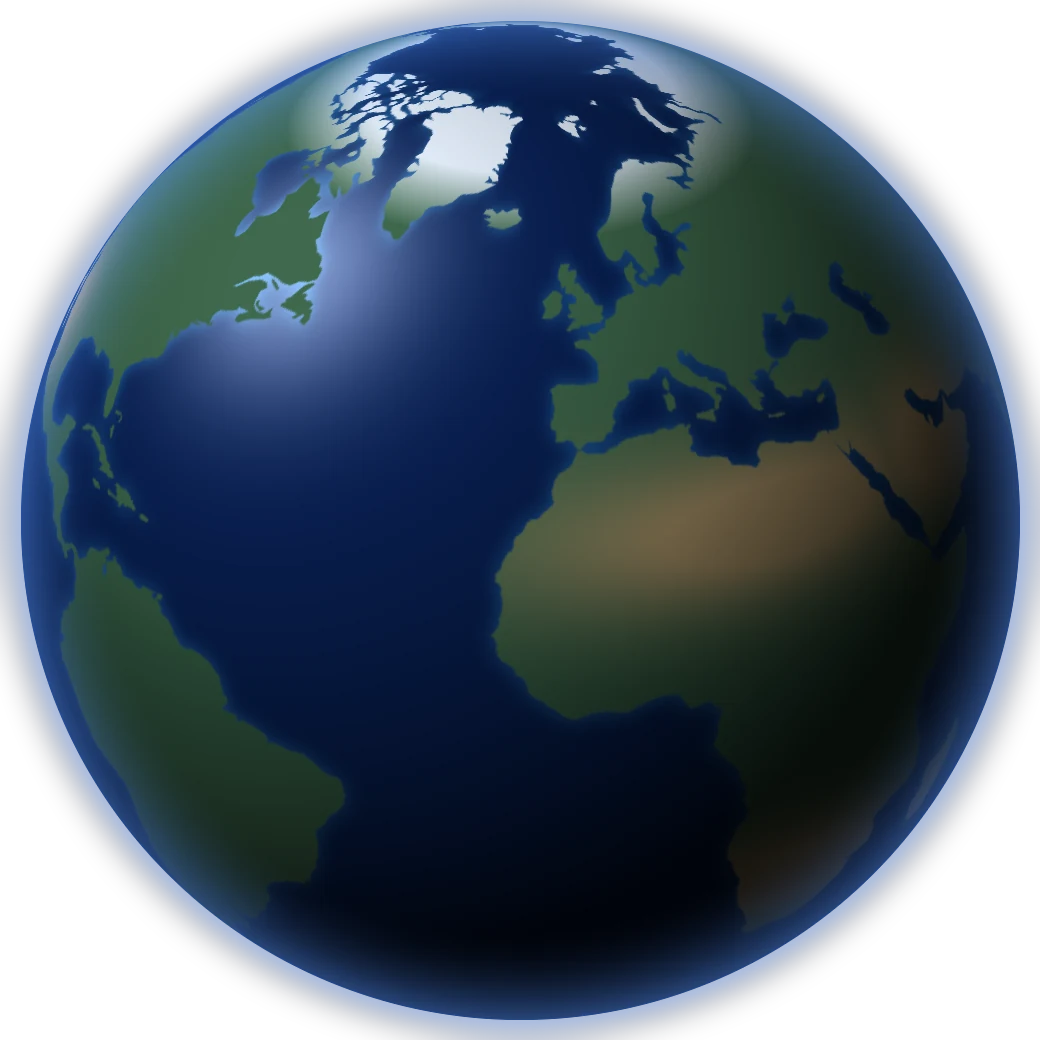
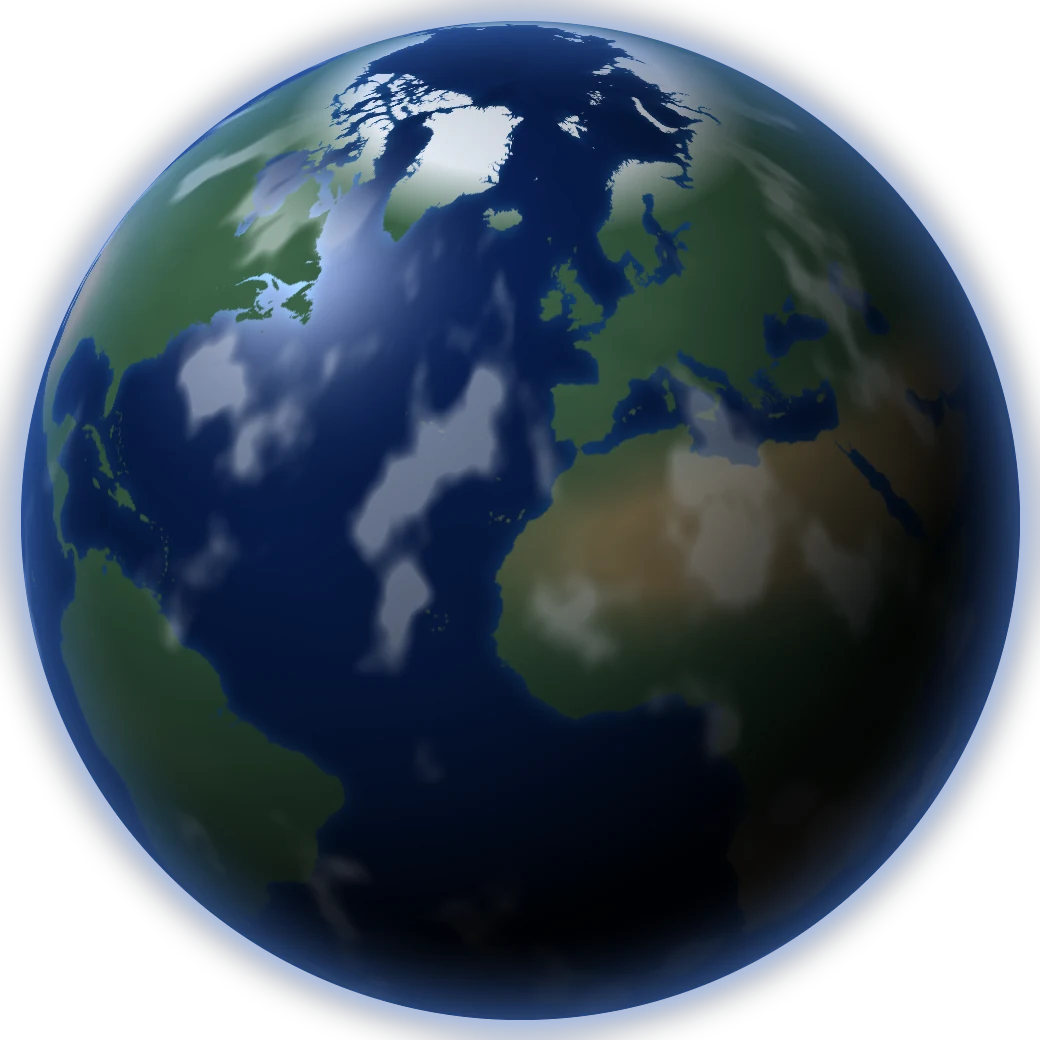
Remove turntable pause button, fix site videos not starting, more realistic globe, restyle quality duty cards
Claude-Session: https://claude.ai/code/session_01YSiovufiGpZNx3xsfEocGK

diff --git a/src/components/SiteVideo.tsx b/src/components/SiteVideo.tsx
@@ -3,9 +3,9 @@
 import { useEffect, useRef, useState } from "react";
 
 /**
- * Short muted loop of real site footage. Plays for every visitor, but only while it is on screen:
- * it starts loading just before it scrolls into view and pauses when it leaves, so several videos on the
- * page never decode at once (smooth playback). No controls (Ganushi, 4 Nov 2026): it plays as a silent loop.
+ * Short muted loop of real site footage, with no controls (Ganushi, 4 Nov 2026). It loads a little before it
+ * scrolls into view and plays while visible, pausing when it leaves so several videos never decode at once.
+ * If the browser pauses or blocks it (power saving, autoplay rules), it retries on the next touch or scroll.
  */
 export function SiteVideo({ src, poster, label, caption }: { src: string; poster: string; label: string; caption: string }) {
   const ref = useRef<HTMLVideoElement>(null);
@@ -14,31 +14,36 @@ export function SiteVideo({ src, poster, label, caption }: { src: string; poster
   useEffect(() => {
     const v = ref.current;
     if (!v) return;
-    let userPaused = false;
-    const onPause = () => { if (!document.hidden && v.dataset.auto !== "1") userPaused = true; };
-    const onPlay = () => { userPaused = false; };
-    v.addEventListener("pause", onPause);
-    v.addEventListener("play", onPlay);
+    v.muted = true;
+    v.setAttribute("muted", "");
+    v.setAttribute("playsinline", "");
+    let visible = false;
+    const tryPlay = () => { if (visible && v.paused && v.currentSrc) v.play().catch(() => {}); };
     const io = new IntersectionObserver(([entry]) => {
-      if (entry.isIntersecting) {
-        setNear(true);
-        if (!userPaused) v.play().catch(() => {});
-      } else if (!v.paused) {
-        v.dataset.auto = "1"; v.pause(); delete v.dataset.auto;
-      }
-    }, { rootMargin: "200px 0px", threshold: 0.15 });
+      visible = entry.isIntersecting;
+      if (visible) { setNear(true); tryPlay(); } else if (!v.paused) v.pause();
+    }, { rootMargin: "400px 0px", threshold: 0 });
     io.observe(v);
-    return () => { io.disconnect(); v.removeEventListener("pause", onPause); v.removeEventListener("play", onPlay); };
+    v.addEventListener("canplay", tryPlay);
+    v.addEventListener("loadeddata", tryPlay);
+    // Retry after the visitor interacts, for browsers that block autoplay until then.
+    const retry = () => tryPlay();
+    window.addEventListener("touchstart", retry, { passive: true });
+    window.addEventListener("scroll", retry, { passive: true });
+    document.addEventListener("visibilitychange", retry);
+    return () => {
+      io.disconnect();
+      v.removeEventListener("canplay", tryPlay);
+      v.removeEventListener("loadeddata", tryPlay);
+      window.removeEventListener("touchstart", retry);
+      window.removeEventListener("scroll", retry);
+      document.removeEventListener("visibilitychange", retry);
+    };
   }, []);
-
-  // Once the source is attached, start playing.
-  useEffect(() => {
-    if (near) ref.current?.play().catch(() => {});
-  }, [near]);
 
   return (
     <figure className="site-video">
-      <video ref={ref} src={near ? src : undefined} poster={poster} muted loop playsInline disablePictureInPicture preload={near ? "auto" : "none"} aria-label={label} />
+      <video ref={ref} src={near ? src : undefined} poster={poster} muted loop playsInline autoPlay disablePictureInPicture preload={near ? "auto" : "none"} aria-label={label} />
       <figcaption>{caption}</figcaption>
     </figure>
   );

diff --git a/src/app/globals.css b/src/app/globals.css
@@ -838,3 +838,15 @@ body::after {
 .vcard-save { justify-self: start; font-size: 0.82rem; font-weight: 600; color: var(--accent-strong); text-decoration: none; border-bottom: 1px dashed currentColor; }
 @media (max-width: 420px) { .vcard-actions { grid-template-columns: 1fr; } .vcard-photo { width: 84px; height: 84px; } }
 @media (prefers-reduced-motion: reduce) { .vcard::after { animation-duration: 14s; } }
+
+/* Quality duty cards */
+.duty { position: relative; overflow: hidden; padding: 24px 22px 22px; display: grid; gap: 12px; align-content: start; --a: 76, 141, 255; transition: transform 0.3s, border-color 0.3s, box-shadow 0.3s; }
+.duty-1 { --a: 168, 85, 247; } .duty-2 { --a: 34, 211, 238; } .duty-3 { --a: 16, 185, 129; }
+.duty::before { content: ""; position: absolute; left: 0; right: 0; top: 0; height: 3px; background: linear-gradient(90deg, rgba(var(--a), 0.2), rgb(var(--a)), rgba(var(--a), 0.2)); }
+.duty::after { content: ""; position: absolute; right: -40px; top: -40px; width: 140px; height: 140px; border-radius: 50%; background: radial-gradient(closest-side, rgba(var(--a), 0.25), transparent); pointer-events: none; }
+.duty:hover { transform: translateY(-4px); border-color: rgba(var(--a), 0.7); box-shadow: 0 22px 44px -24px rgba(0, 0, 0, 0.9), 0 0 0 1px rgba(var(--a), 0.4); }
+.duty-top { display: flex; align-items: center; justify-content: space-between; gap: 10px; }
+.duty-ico { width: 48px; height: 48px; border-radius: 14px; display: grid; place-items: center; color: #fff; background: linear-gradient(150deg, rgba(var(--a), 0.95), rgba(var(--a), 0.55)); box-shadow: 0 8px 22px -8px rgb(var(--a)); }
+.duty-tag { font: 600 0.68rem var(--ff-body); letter-spacing: 0.06em; text-transform: uppercase; text-align: right; color: rgb(var(--a)); filter: brightness(1.35); }
+.duty h3 { font-size: 1.08rem; color: #fff; margin-top: 4px; }
+.duty p { font-size: 0.9rem; line-height: 1.65; }

diff --git a/src/app/page.tsx b/src/app/page.tsx
@@ -1,4 +1,4 @@
-import { AlertTriangle, Check, CheckCircle2, ClipboardCheck, Clock, Droplets, Fan, FileBarChart, FileCheck2, FileSignature, Gauge, Mail, MapPin, MessageSquare, Phone, RefreshCw, ScanSearch, Server, ShieldCheck, Truck, Wallet, Wrench, Zap } from "lucide-react";
+import { AlertTriangle, Check, CheckCircle2, ClipboardCheck, Clock, Droplets, Fan, FileBarChart, FileCheck2, FileSignature, Gauge, Mail, MapPin, MessageSquare, Phone, RefreshCw, ScanSearch, Server, ShieldCheck, Sparkles, Truck, Wallet, Wind, Wrench, Zap } from "lucide-react";
 import { CoolingExplainer } from "@/components/CoolingExplainer";
 import { Globe } from "@/components/Globe";
 import { LeadForm } from "@/components/LeadForm";
@@ -363,7 +363,14 @@ export default function Home() {
           </Reveal>
           <div className="qc-duties">
             {quality.team.duties.map((d, i) => (
-              <Reveal key={d.title} delay={i * 0.05} className="panel feat-card"><h3>{d.title}</h3><p className="muted">{d.text}</p></Reveal>
+              <Reveal key={d.title} delay={i * 0.05} className={`panel duty duty-${i}`}>
+                <div className="duty-top">
+                  <span className="duty-ico">{[<Wind key="a" size={22} />, <Sparkles key="b" size={22} />, <Droplets key="c" size={22} />, <ClipboardCheck key="d" size={22} />][i]}</span>
+                  <span className="duty-tag">{["Weekly · Monthly · 3–4 months", "Every machine", "Weekly inspection", "Until closed"][i]}</span>
+                </div>
+                <h3>{d.title}</h3>
+                <p className="muted">{d.text}</p>
+              </Reveal>
             ))}
           </div>
           <Tabs

diff --git a/src/components/MinerTurntable.tsx b/src/components/MinerTurntable.tsx
@@ -1,13 +1,12 @@
 "use client";
 
 import { useEffect, useRef, useState } from "react";
-import { Pause, Play } from "lucide-react";
 import { turntableFor, type Model } from "@/lib/models";
 
 type Props = {
   name: string;
   cooling: Model["cooling"];
-  /** "hero": model page, with a pause button and caption. "card": model grid, the card stays a link. */
+  /** "hero": model page, with a caption. "card": model grid, the card stays a link. */
   variant?: "hero" | "card";
 };
 
@@ -23,8 +22,7 @@ export function MinerTurntable({ name, cooling, variant = "hero" }: Props) {
   const host = useRef<HTMLDivElement>(null);
   const [visible, setVisible] = useState(!card);
   const [tabVisible, setTabVisible] = useState(true);
-  const [moving, setMoving] = useState(true);
-  const animate = moving && visible && tabVisible;
+  const animate = visible && tabVisible;
 
   useEffect(() => {
     const visibility = () => setTabVisible(!document.hidden);
@@ -50,12 +48,6 @@ export function MinerTurntable({ name, cooling, variant = "hero" }: Props) {
           decoding="async"
         />
         {!card && <figcaption>Representative {label} render, not the exact model and not a product photo</figcaption>}
-        {!card && (
-          <button type="button" className="viewer-btn viewer-btn-corner" onClick={() => setMoving((m) => !m)} aria-pressed={!moving}>
-            {moving ? <Pause size={16} aria-hidden="true" /> : <Play size={16} aria-hidden="true" />}
-            {moving ? "Pause motion" : "Play motion"}
-          </button>
-        )}
       </figure>
       {card && <span className="render-tag">Representative render</span>}
     </div>
